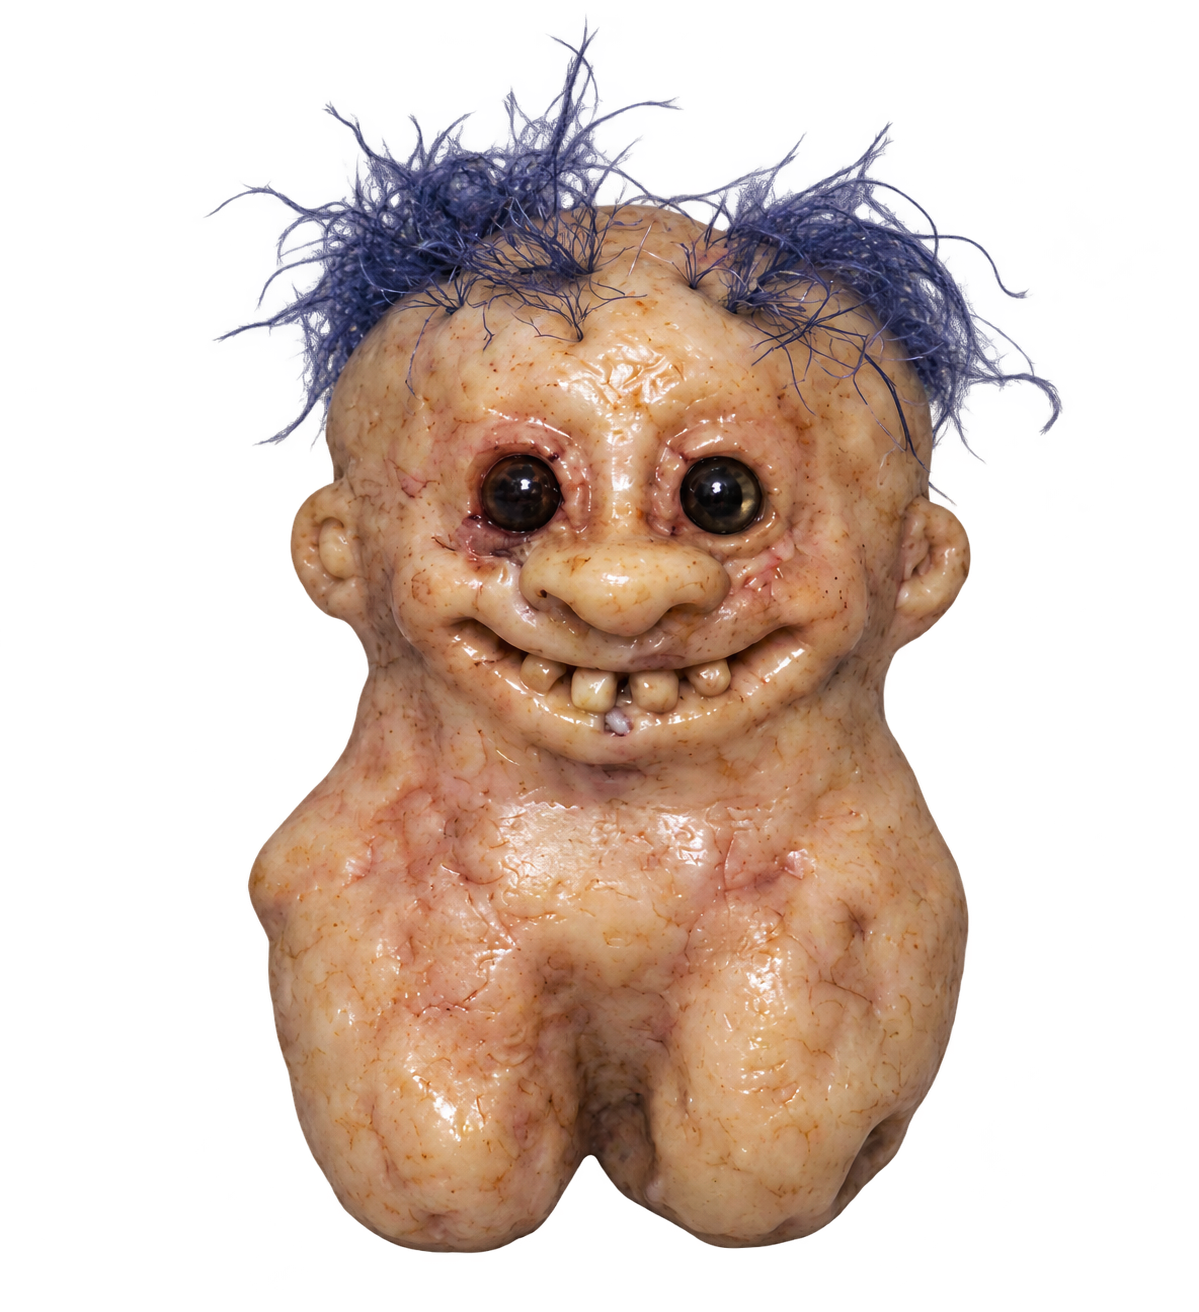
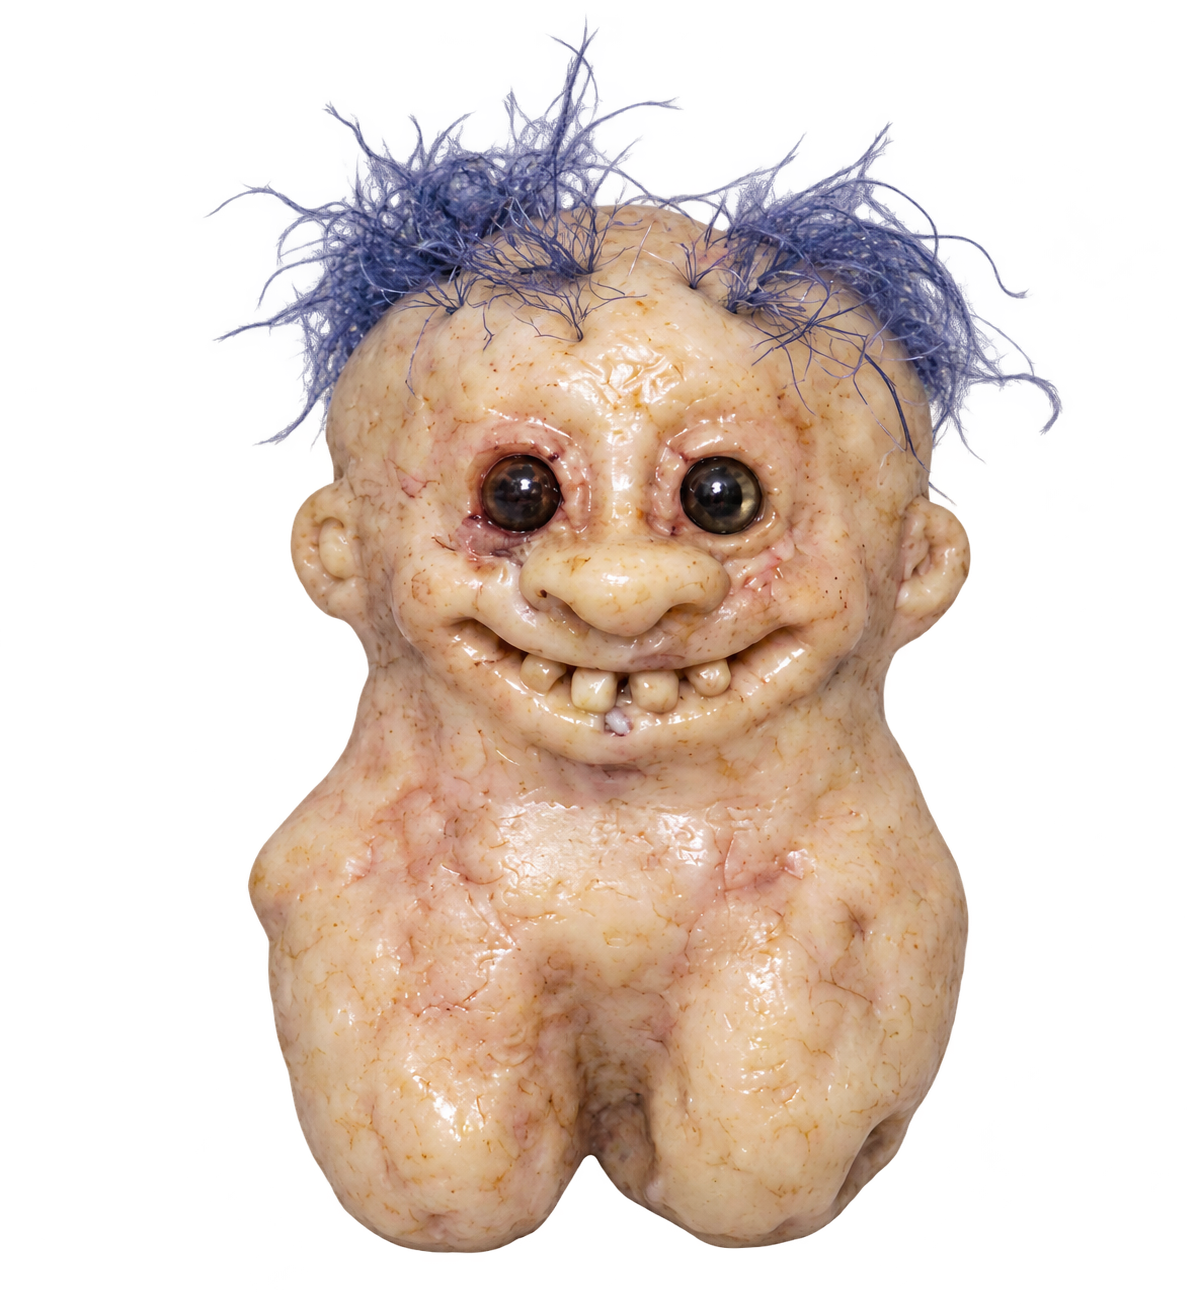
demo: the spectrum strip goes back to the pre-processing specimens
Noa's five originals replace the over-processed n-01…n-05, in tooth->troll
order: 01 molar, 02 tooth-with-a-face, 03 the midpoint hybrid, 04 troll with
tooth skin, 05 the classic blue troll. Four were transparent cut-outs and one
on white; all flattened onto pure white so they sit clean on the card — same
size and position, since only the files change and the CSS still contains and
centres them. ?v=raw1 cache-buster on the strip and the card's default image
so the new ones load. (The processed versions are kept locally in
assets/mix/_bak_processed, which is gitignored.)

diff --git a/index.html b/index.html
@@ -280,7 +280,7 @@
        aria-label="Generated midpoint result">
 
     <div class="mixwin__hero">
-      <img class="mixwin__big" id="mixwin-big" src="assets/mix/n-03.png"
+      <img class="mixwin__big" id="mixwin-big" src="assets/mix/n-03.png?v=raw1"
            alt="The generated midpoint object">
 
       <!-- the spec sheet (Figma 3234:272/273 + the two Line 5 rules). Title,
@@ -370,7 +370,7 @@
 <!-- optional endless sideways-scroll mode, toggled by a button (sideways.js) -->
 <script src="sideways.js?v=cowloop3"></script>
 <!-- scripted, cursor-less demo for screen capture — opened with ?rec (recording.js) -->
-<script src="spectrum-window.js?v=6"></script>
+<script src="spectrum-window.js?v=7"></script>
 <script src="recording.js?v=rec10k"></script>
 <script src="clip-stage.js?v=12"></script>
 <script src="auto-mix.js?v=10"></script>

diff --git a/spectrum-window.js b/spectrum-window.js
@@ -30,7 +30,7 @@
    ───────────────────────────────────────────────────────────────────── */
 
 (() => {
-  const SPECTRUM = [1, 2, 3, 4, 5].map(n => 'assets/mix/n-0' + n + '.png');
+  const SPECTRUM = [1, 2, 3, 4, 5].map(n => 'assets/mix/n-0' + n + '.png?v=raw1');
   const MID = 2;                       // 03 is the midpoint, and what opens first
   const STEP_MS = 700;                 // one step of the play-through
   const sleep = ms => new Promise(r => setTimeout(r, ms));
